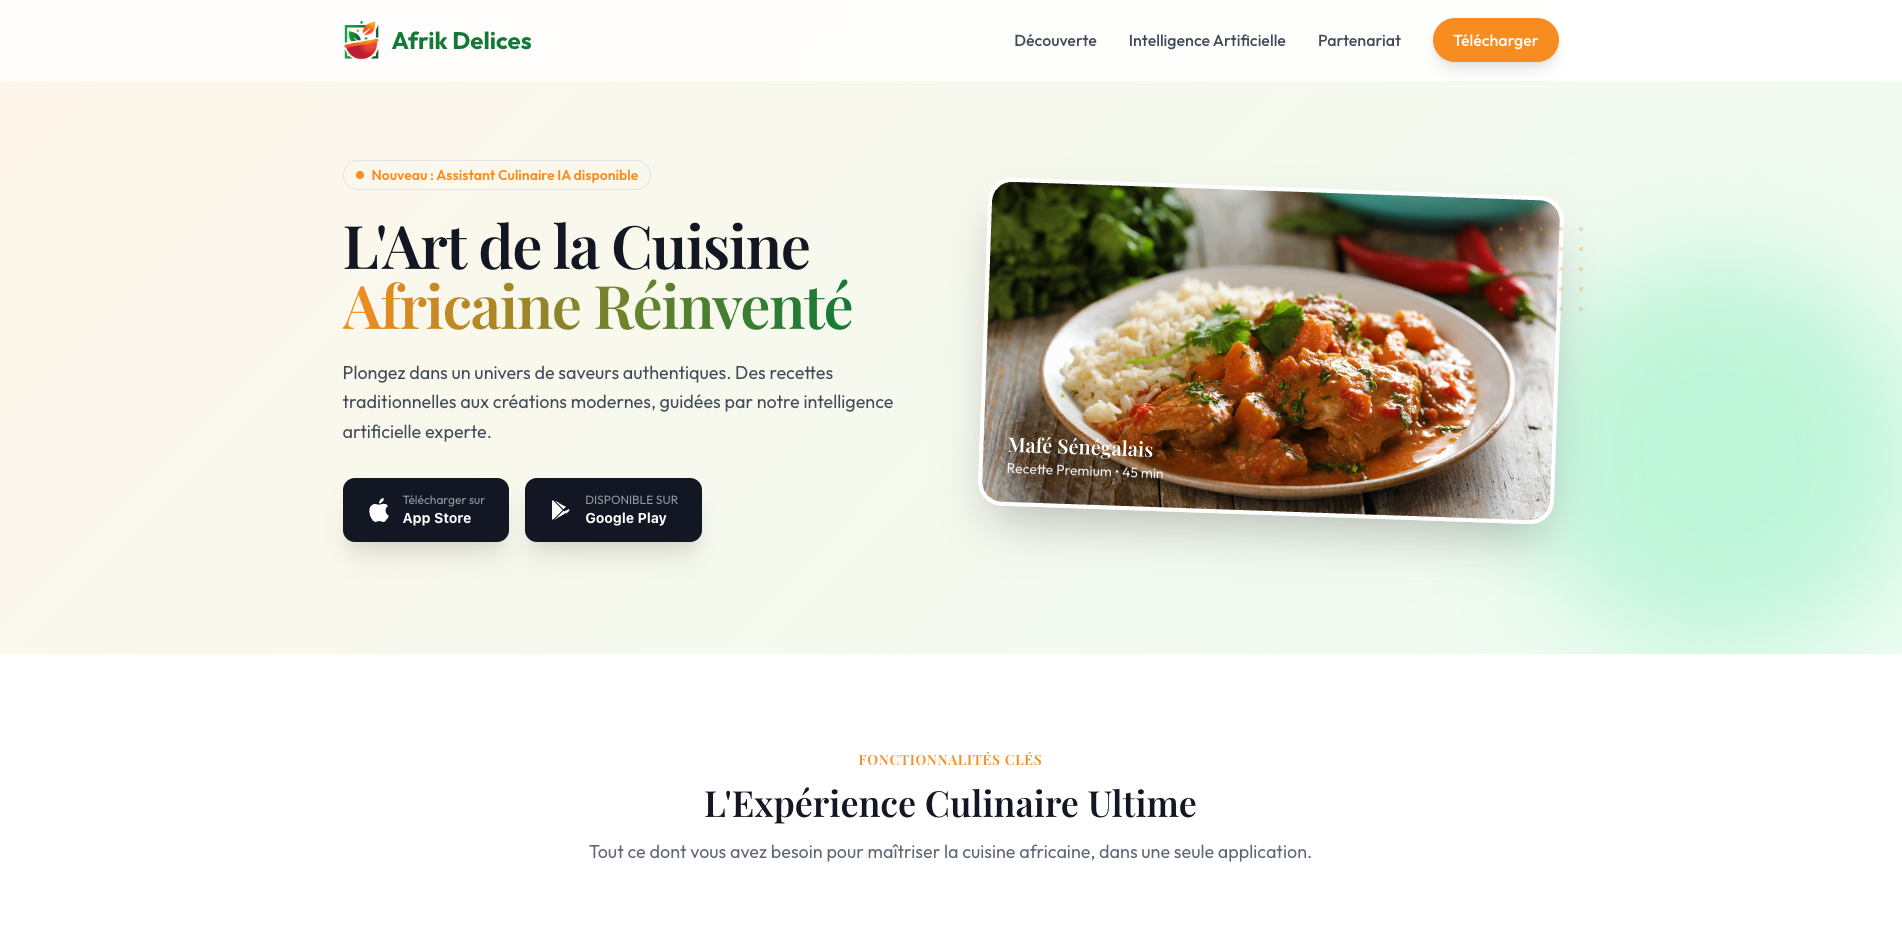
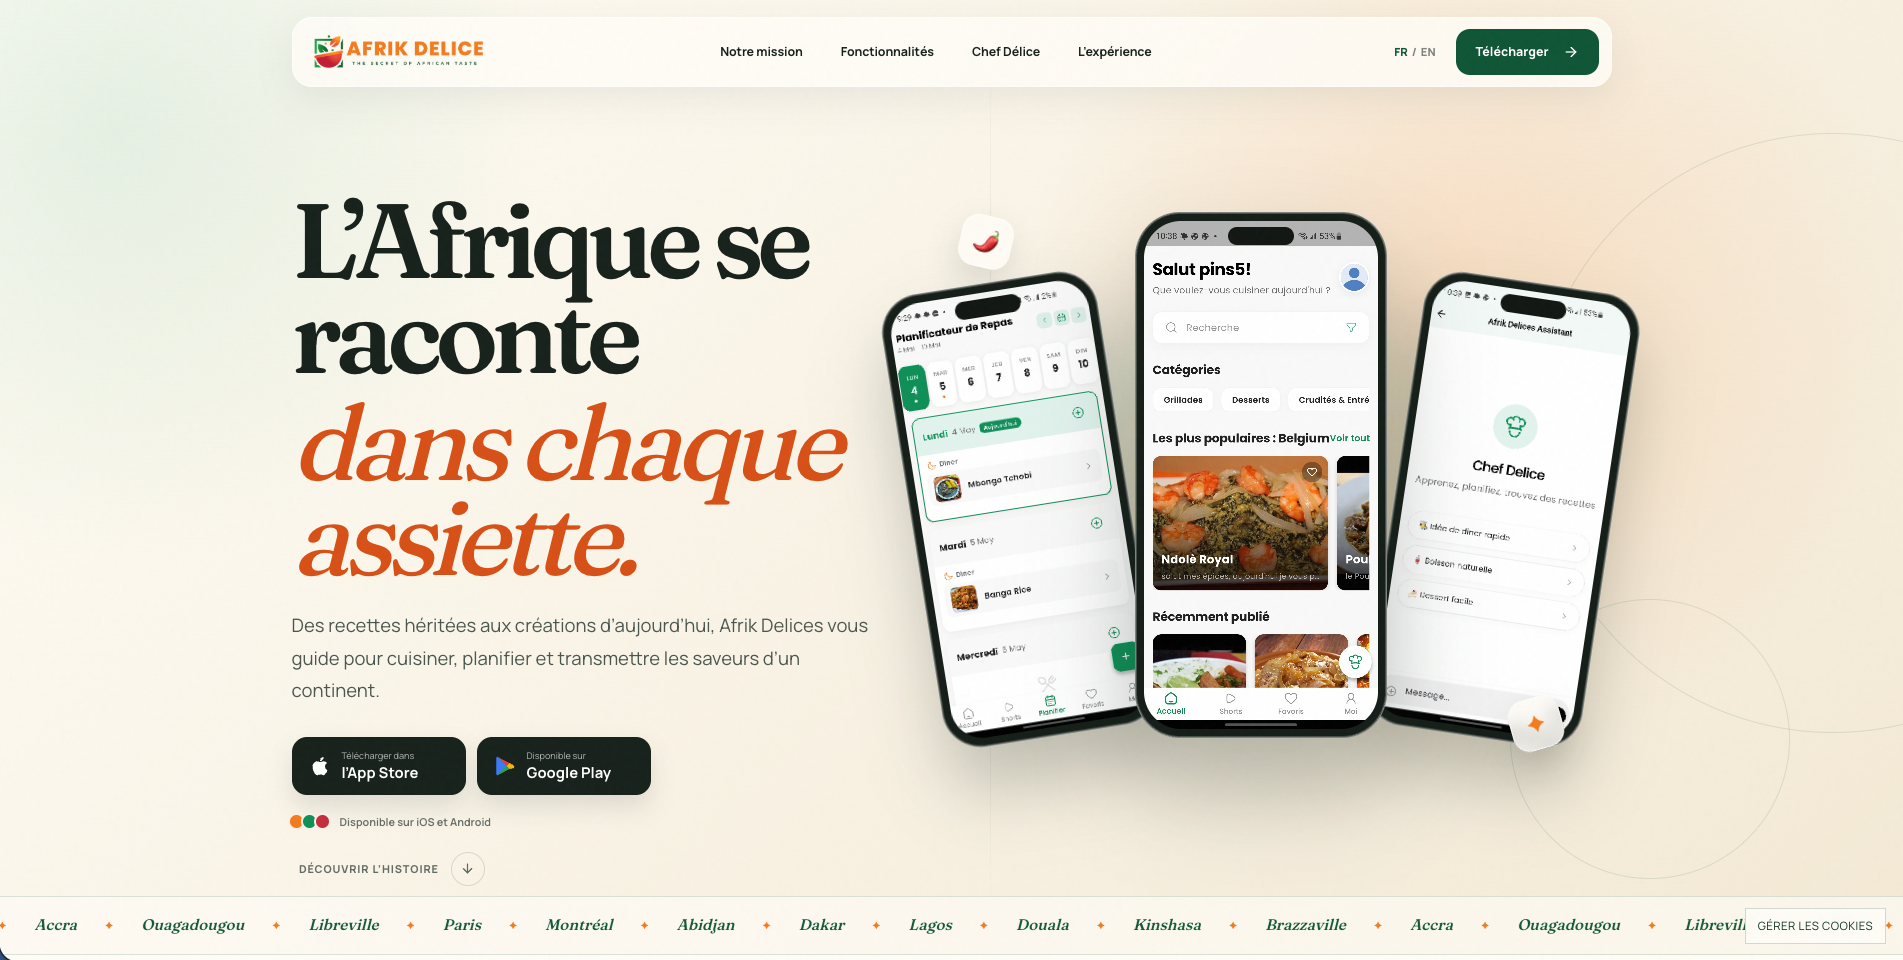
update project and images

diff --git a/src/components/FeaturedProjects.tsx b/src/components/FeaturedProjects.tsx
@@ -15,6 +15,14 @@ type Project = {
 
 const projects: Project[] = [
   {
+    src: '/images/afrikdelices.png',
+    alt: 'Afrik Delices',
+    title: 'Afrik Delices',
+    description: 'A culinary platform showcasing authentic African recipes, connecting food enthusiasts with traditional cooking from across the continent.',
+    href: 'https://afrikdelices.com/',
+    tags: ['Food', 'Mobile App', 'AI'],
+  },
+  {
     src: '/images/clustering_client.png',
     alt: 'E-commerce Client Segmentation',
     title: 'E-commerce Client Segmentation',
@@ -31,28 +39,12 @@ const projects: Project[] = [
     tags: ['MLOps', 'XGBoost', 'Python', 'Docker'],
   },
   {
-    src: '/images/chest.jpeg',
-    alt: 'Chest X-Ray Pneumonia Detection',
-    title: 'Chest X-Ray Pneumonia Detection',
-    description: 'AI-powered web application for detecting pneumonia from chest X-ray images using a fine-tuned ResNet18 model served via FastAPI.',
-    href: 'https://github.com/pinsdev24/chest-xray-app',
-    tags: ['Deep Learning', 'FastAPI', 'PyTorch'],
-  },
-  {
-    src: '/images/todomcp_langgraph.png',
-    alt: 'Todo MCP Agent',
-    title: 'MCP Server',
-    description: 'An MCP server built with Python, Pydantic and SQLite to manage personal todo lists, connected to a local MCP client.',
-    href: 'https://github.com/pinsdev24/IntelligentSystemsLab/tree/main/ai-agent/todo-agent-mcp',
-    tags: ['MCP', 'Python', 'AI Agent'],
-  },
-  {
-    src: '/images/afrikdelices.png',
-    alt: 'Afrik Delices',
-    title: 'Afrik Delices',
-    description: 'A culinary platform showcasing authentic African recipes, connecting food enthusiasts with traditional cooking from across the continent.',
-    href: 'https://afrikdelices.com/',
-    tags: ['Food', 'Mobile App', 'AI'],
+    src: '/images/vente-pro.png',
+    alt: 'Vente Pro dashboard',
+    title: 'Vente Pro',
+    description: 'Full-stack sales management platform with a FastAPI backend, SQLAlchemy data layer, PostgreSQL database, Cloudflare R2 storage, and GitHub Actions delivery pipeline.',
+    href: 'https://vente-pro-green.vercel.app/',
+    tags: ['FastAPI', 'SQLAlchemy', 'PostgreSQL', 'R2', 'GitHub Actions'],
   },
   {
     src: '/images/valide_landing.png',
@@ -88,7 +80,7 @@ export default function FeaturedProjects() {
         </motion.div>
 
         <div className="grid grid-cols-1 md:grid-cols-2 lg:grid-cols-3 gap-6 md:gap-8">
-          {projects.map((p, i) => (
+          {projects.map((p) => (
             <motion.a
               key={p.title}
               href={p.href}

diff --git a/src/app/api/chat/route.ts b/src/app/api/chat/route.ts
@@ -2,7 +2,11 @@ import { generateText } from 'ai'
 import { google } from '@ai-sdk/google'
 import { db } from '@/db'
 import { chats, messages } from '@/db/schema'
-import { eq } from 'drizzle-orm'
+
+type IncomingMessage = {
+  role: string
+  content: string
+}
 
 const SITE_CONTEXT = `You are a helpful assistant for Prestilien Pindoh's personal site.
 Name: Prestilien Pindoh
@@ -11,14 +15,14 @@ Location: Brussels, Belgique
 Focus: Cloud, AI, Data Science, System Design, AI Agents (LangChain, LangGraph, LangSmith), Serverless, AWS, Docker, Terraform, CI/CD
 Certifications: AWS Certified Developer – Associate; LangChain Academy: Deep Research with LangGraph
 Portfolio: https://prestilienpindoh.me
-Featured projects include Flight Booking Chatbot, Todo MCP Server, Valide (education platform), Afrik Delices (e-commerce). Answer questions about the person, skills, experience, projects, and contact details. If you don't know, say so.`
+Featured projects include Afrik Delices (culinary platform), E-commerce Client Segmentation, MLOps Fraud Detection, Vente Pro (sales management platform), and Valide (education platform). Answer questions about the person, skills, experience, projects, and contact details. If you don't know, say so.`
 
 export async function POST(req: Request) {
   if (!process.env.GOOGLE_GENERATIVE_AI_API_KEY) {
     return new Response('Missing GOOGLE_GENERATIVE_AI_API_KEY', { status: 500 })
   }
 
-  const body = await req.json()
+  const body = await req.json() as { messages: IncomingMessage[]; chatId?: string }
   const { messages: inputMessages, chatId: providedChatId } = body
 
   let chatId = providedChatId
@@ -42,8 +46,8 @@ export async function POST(req: Request) {
 
   // Sanitize messages for CoreMessage format
   const coreMessages = inputMessages
-    .filter((m: any) => m.role === 'user' || m.role === 'assistant')
-    .map((m: any) => ({ role: m.role, content: m.content }))
+    .filter((m): m is IncomingMessage & { role: 'user' | 'assistant' } => m.role === 'user' || m.role === 'assistant')
+    .map((m) => ({ role: m.role, content: m.content }))
 
   try {
     const result = await generateText({

diff --git a/src/components/BuildAIAgent.tsx b/src/components/BuildAIAgent.tsx
@@ -73,15 +73,15 @@ export default function BuildAIAgent() {
                 className="w-full md:w-3/5"
               >
                 <div
-                  className="img-reveal w-full aspect-video group"
+                  className="img-reveal w-full aspect-[2/1]"
                   style={{ border: '1px solid var(--border)' }}
                 >
                   <Image
                     src={project.image}
                     alt={`${project.title} — AI implementation by Prestilien Pindoh`}
                     width={720}
-                    height={405}
-                    className="w-full h-full object-contain transition-transform duration-700 group-hover:scale-105"
+                    height={360}
+                    className="w-full h-full object-cover"
                   />
                 </div>
               </motion.div>

diff --git a/src/components/Experience.tsx b/src/components/Experience.tsx
@@ -18,7 +18,7 @@ const experiences: ExperienceItem[] = [
   {
     company: 'Multitel',
     role: 'AI Engineer Intern',
-    period: 'Feb 2026 — Present',
+    period: 'Feb 2026 — Jun 2026',
     status: 'Current',
     summary: 'Internship focused on applied AI engineering, intelligent systems, and production-minded experimentation.',
     highlights: ['AI engineering', 'Reinforcement Learning', 'eXplainability (XRL)'],
@@ -43,7 +43,7 @@ const experiences: ExperienceItem[] = [
   {
     company: 'VALIDE',
     role: 'Co-founder & CTO',
-    period: '2021 — Present',
+    period: '2021 — 2025',
     summary: 'Co-founded an education platform and led technical decisions from early product architecture to AI-enabled learning experiences.',
     highlights: ['Technical strategy', 'Education tech', 'AI features'],
     logo: '/images/valide.png',
